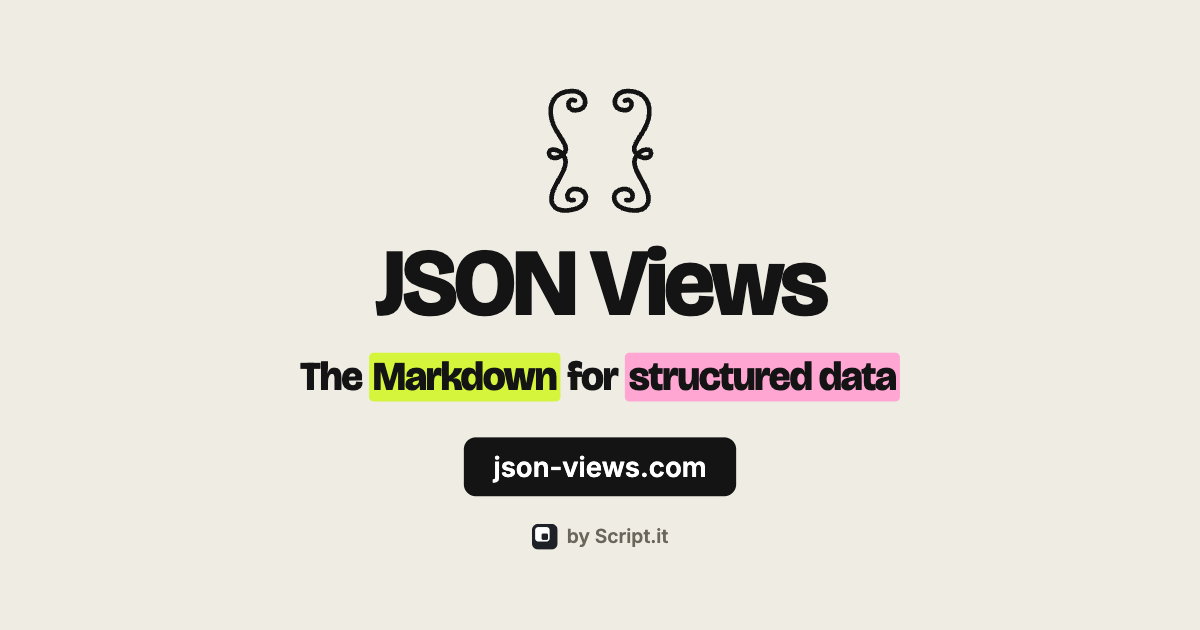
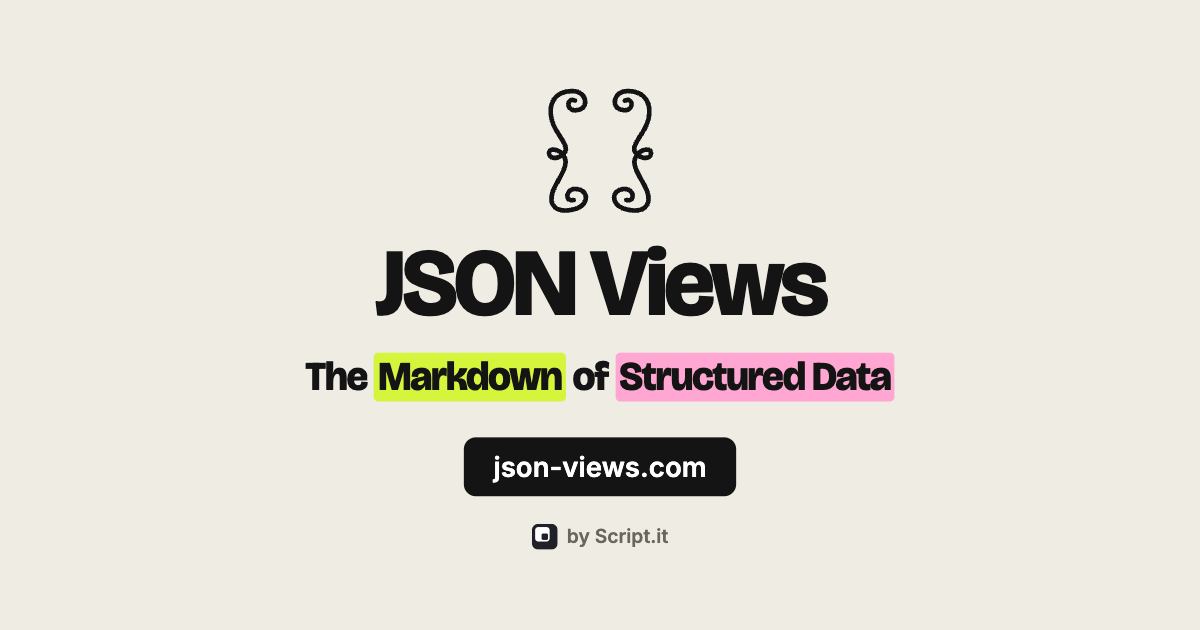
Use "The Markdown of Structured Data" in the social preview

Changed region(s): [[0.2467, 0.5429, 0.7708, 0.6333]]

diff --git a/apps/web/index.html b/apps/web/index.html
@@ -7,15 +7,15 @@
     <meta name="google-site-verification" content="cXYXNrwUKt9BABdI2cxcnAoN7OFXaHcxdu-9miNjFNQ" />
     <meta property="og:type" content="website" />
     <meta property="og:site_name" content="JSON Views" />
-    <meta property="og:title" content="JSON Views — the Markdown for structured data" />
+    <meta property="og:title" content="JSON Views — the Markdown of Structured Data" />
     <meta property="og:description" content="Data files that both humans and agents can easily view and edit." />
     <meta property="og:url" content="https://json-views.com/" />
     <meta property="og:image" content="https://json-views.com/og-image.png" />
     <meta property="og:image:width" content="1200" />
     <meta property="og:image:height" content="630" />
-    <meta property="og:image:alt" content="JSON Views — the Markdown for structured data" />
+    <meta property="og:image:alt" content="JSON Views — the Markdown of Structured Data" />
     <meta name="twitter:card" content="summary_large_image" />
-    <meta name="twitter:title" content="JSON Views — the Markdown for structured data" />
+    <meta name="twitter:title" content="JSON Views — the Markdown of Structured Data" />
     <meta name="twitter:description" content="Data files that both humans and agents can easily view and edit." />
     <meta name="twitter:image" content="https://json-views.com/og-image.png" />
     <link rel="describedby" type="text/plain" href="./llms.txt" title="JSON Views agent guide" />
